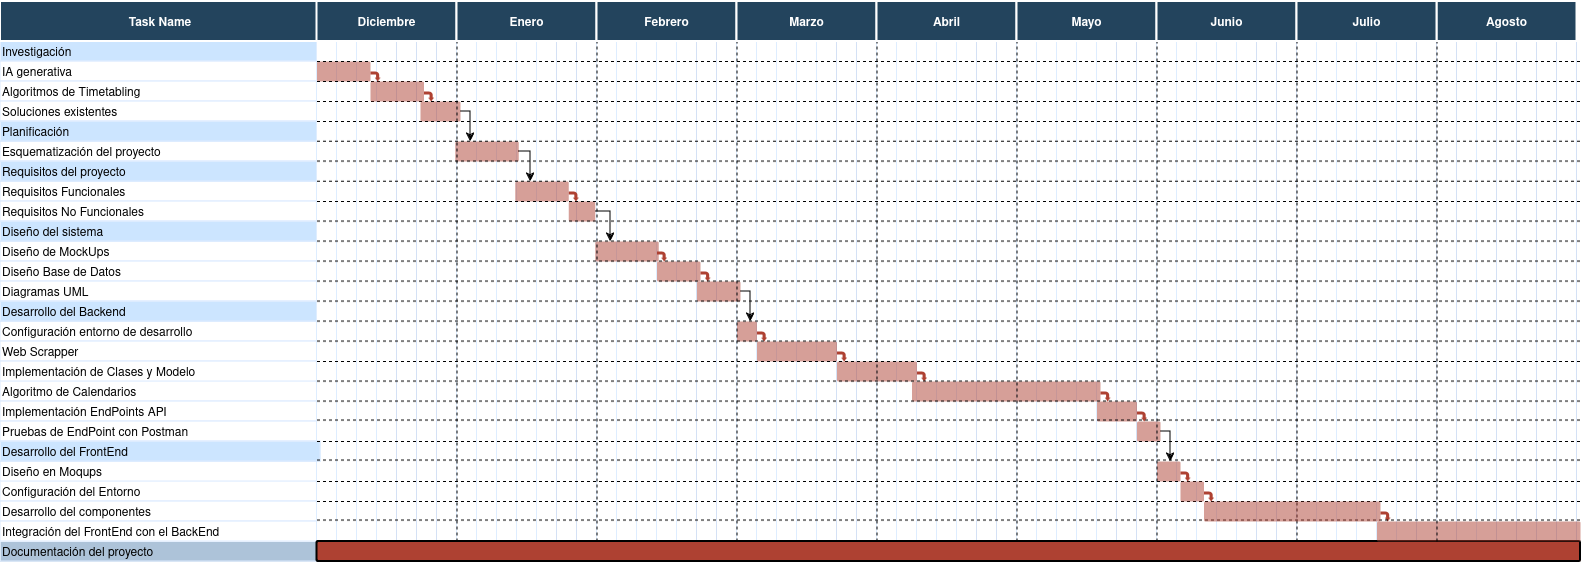
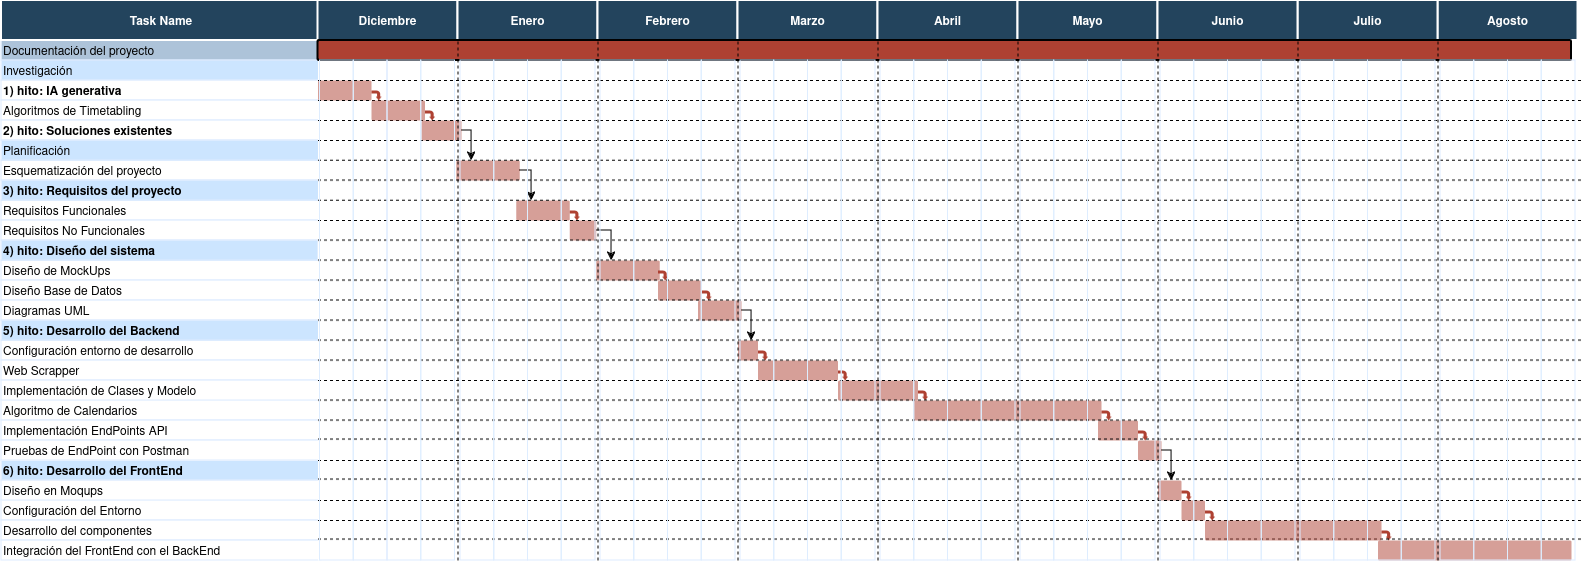
Último commit

diff --git a/doc/secciones/05_diseño.tex b/doc/secciones/05_diseño.tex
@@ -1,6 +1,8 @@
 \chapter{Diseño}
 En esta sección se describirá el diseño de la plataforma \textbf{GAC} (Gestor Académico de Calendarios). Se detallarán los aspectos más relevantes de la arquitectura, la interfaz de usuario y la base de datos.
 
+
+
 \section{Arquitectura software}
 La arquitectura software se refiere a la vista del sistema que incluye los componentes principales del mismo, la conducta de dichos componentes según se la percibe desde el resto del sistema y las formas en las que interactúan y se coordinan entre sí para lograr los objetivos del sistema. Sus dos principales aspectos son, que provee de un plan de diseño, un ``blueprint'' del sistema a la vez que hace de abstracción del mismo para ayudar a manejar la complejidad del mismo. Una buena arquitectura software es el garante de un sistema que cumple con los requisitos de calidad, como la eficiencia, la fiabilidad, la seguridad, la mantenibilidad, la escalabilidad, la portabilidad, la usabilidad, la interoperabilidad, la disponibilidad y la capacidad de evolución \cite{hofmeister2000applied, reynoso2004introduccion, garlan2008software}.\newline
 
@@ -9,6 +11,40 @@ Para el desarrollo de la plataforma se ha optado por una arquitectura cliente-se
 \newpage
 
 Adicionalmente, se ha desarrollado un web scraper\footnote{\url{https://kinsta.com/es/base-de-conocimiento/que-es-web-scraping/}} que se encarga de obtener toda la programación docente de la oficina virtual de la Universidad de Granada\footnote{\url{https://oficinavirtual.ugr.es}}. Los usuarios realizan peticiones desde la plataforma web al servidor, el cual se encarga de procesarlas y devolver una respuesta.\newline
+
+
+\subsection{Arquitectura cliente-servidor}
+
+La arquitectura cliente-servidor (Figura \ref{fig:cliente_servidor}) es un modelo de diseño de software en el que las tareas se reparten entre los proveedores de recursos o servicios, llamados \textbf{servidores}, y los demandantes, llamados \textbf{clientes}. Un cliente realiza una petición a un servidor, el cual procesa la solicitud y devuelve una respuesta. La comunicación entre ambos se realiza a través de una red, generalmente utilizando el protocolo TCP/IP. Actualmente, se emplea el término backend para referirse a los servidores y frontend para los clientes.\newline
+
+\begin{figure}[H]
+    \centering
+    \includegraphics[width=0.7\textwidth]{./imagenes/cliente_servidor.png}
+    \caption{Arquitectura Cliente-Servidor \cite{sucerman2023}.}
+    \label{fig:cliente_servidor}
+\end{figure}
+
+\subsubsection*{Cliente}
+
+El cliente es la parte del sistema que interactúa con el usuario final. Se encarga de enviar solicitudes al servidor y de procesar la respuesta para mostrarla al usuario. Puede ser una aplicación de escritorio, una aplicación web o una aplicación móvil. En el caso de la plataforma \textbf{GAC}, el cliente es una aplicación web que se ejecuta en un navegador.\newline
+
+\subsubsection*{Servidor}
+
+El servidor es la parte del sistema que recibe las solicitudes del cliente, las procesa y devuelve una respuesta. Puede ser un servidor web, un servidor de bases de datos o un servidor de aplicaciones. En el caso de la plataforma \textbf{GAC}, el servidor es un contenedor de Docker que se encarga de gestionar las solicitudes de los clientes y de comunicarse con la base de datos.
+
+\subsubsection*{Ventajas e inconvenientes}
+
+Las ventajas de la arquitectura cliente-servidor son varias, garante de ello es su amplia adopción en la industria del software. Entre las más destacadas se encuentran:
+
+\begin{itemize}
+    \item [$\circ$] Facilidad en la administración y control de los datos al encontrarse los recursos en entornos de servidor controlados
+    \item [$\circ$] Escalabilidad, ya que se pueden ampliar ambos entornos, centrando las necesidades de escalabilidad en el servidor.
+    \item [$\circ$] Permite el mantenimiento individual de las capas software, lo que permite aislar problemas y facilitar la corrección de errores.
+    \item [$\circ$] Desarrollo menos dependiente, ya que se pueden desarrollar las capas de forma separada.
+\end{itemize}
+
+Sin embargo, también presenta inconvenientes, como la necesidad de una infraestructura de red para la comunicación entre cliente y servidor, la dependencia de la disponibilidad del servidor y la necesidad de una mayor seguridad en la comunicación entre ambos.\newline
+
 
 \subsection{Arquitectura Orientada a Servicios (SOA)}
 
@@ -103,31 +139,6 @@ Bajo el marco de una arquitectura cliente-servidor, las llamadas a los servicios
     \end{itemize}
 \end{itemize}
 
-\subsection{Arquitectura cliente-servidor}
-
-La arquitectura cliente-servidor es un modelo de diseño de software en el que las tareas se reparten entre los proveedores de recursos o servicios, llamados \textbf{servidores}, y los demandantes, llamados \textbf{clientes}. Un cliente realiza una petición a un servidor, el cual procesa la solicitud y devuelve una respuesta. La comunicación entre ambos se realiza a través de una red, generalmente utilizando el protocolo TCP/IP. Actualmente, se emplea el término backend para referirse a los servidores y frontend para los clientes.\newline
-
-\subsubsection*{Cliente}
-
-El cliente es la parte del sistema que interactúa con el usuario final. Se encarga de enviar solicitudes al servidor y de procesar la respuesta para mostrarla al usuario. Puede ser una aplicación de escritorio, una aplicación web o una aplicación móvil. En el caso de la plataforma \textbf{GAC}, el cliente es una aplicación web que se ejecuta en un navegador.\newline
-
-\subsubsection*{Servidor}
-
-El servidor es la parte del sistema que recibe las solicitudes del cliente, las procesa y devuelve una respuesta. Puede ser un servidor web, un servidor de bases de datos o un servidor de aplicaciones. En el caso de la plataforma \textbf{GAC}, el servidor es un contenedor de Docker que se encarga de gestionar las solicitudes de los clientes y de comunicarse con la base de datos.\newline
-
-\subsubsection*{Ventajas e inconvenientes}
-
-Las ventajas de la arquitectura cliente-servidor son varias, garante de ello es su amplia adopción en la industria del software. Entre las más destacadas se encuentran:
-
-\begin{itemize}
-    \item [$\circ$] Facilidad en la administración y control de los datos al encontrarse los recursos en entornos de servidor controlados
-    \item [$\circ$] Escalabilidad, ya que se pueden ampliar ambos entornos, centrando las necesidades de escalabilidad en el servidor.
-    \item [$\circ$] Permite el mantenimiento individual de las capas software, lo que permite aislar problemas y facilitar la corrección de errores.
-    \item [$\circ$] Desarrollo menos dependiente, ya que se pueden desarrollar las capas de forma separada.
-\end{itemize}
-
-Sin embargo, también presenta inconvenientes, como la necesidad de una infraestructura de red para la comunicación entre cliente y servidor, la dependencia de la disponibilidad del servidor y la necesidad de una mayor seguridad en la comunicación entre ambos.\newline
-
 \section{Diseño Lógico}
 
 Los diagramas de clase UML (Unified Modeling Language) son el núcleo del diseño y análisis orientado a objetos y son una forma de modelar la estructura estática de un sistema, por medio de clases, atributos, métodos y relaciones entre ellas \cite{herchi2012user}. Todas las clases del diagrama que se muestra en la Figura \ref{fig:class_diagram}, se traducirán a tablas donde sus campos serán los atributos que se detallan en la figura. A continuación se muestra el diagrama de clases y secuencia de la plataforma.\newline
@@ -158,7 +169,7 @@ Adicionalmente, se ha desarrollado un diagrama de secuencia que muestra la inter
 
 Un wireframe\footnote{\url{https://miro.com/es/wireframe/que-es-wireframe/}} es un diagrama visual que esboza el esqueleto de un proyecto o pieza tecnológica. Los diseñadores de UX (User Experience) suelen utilizarlo para trazar el diseño y la composición de su trabajo si entrar en detalles de paletas de color, etc. Es la etapa previa a los mockups y prototipos y se caracterizan por la ausencia de colores y elementos de diseño estético.\newline
 
-Los wireframes que se muestra en las Figuras \ref{fig:wireframe_a} y \ref{fig:wireframe_b}, pertenecen a los primeros bocetos de la interfaz de usuario de la plataforma \textbf{GAC}, realizados con la plataforma Moqups \footnote{\url{https://moqups.com/es/}}. En las primeras etapas del diseño se consideró el uso de modelos de IA generativa para el desarrollo de los calendarios. Además, se pretendía que la plataforma fuese una especie de organizador personal tipo Google Calendar. Pueden consultarse el resto de diseños en el anexo I.\newline
+Los wireframes que se muestra en las Figuras \ref{fig:wireframe_a} y \ref{fig:wireframe_b}, pertenecen a los primeros bocetos de la interfaz de usuario de la plataforma \textbf{GAC}, realizados con la plataforma Moqups \footnote{\url{https://moqups.com/es/}}. En las primeras etapas del diseño se consideró el uso de modelos de IA generativa para el desarrollo de los calendarios. Además, se pretendía que la plataforma fuese una especie de organizador personal tipo Google Calendar. Pueden consultarse el resto de diseños en el Anexo I.\newline
 
 
 \begin{figure}[H]

diff --git a/doc/secciones/03_planificacion.tex b/doc/secciones/03_planificacion.tex
@@ -56,7 +56,7 @@ Para llevar a cabo este proyecto, se ha optado por una metodología de desarroll
 \begin{enumerate}
     \item \textbf{Flexibilidad:} Al asumir los roles de programador y usuario de la aplicación, la capacidad de adaptación cobró gran relevancia. Los requisitos podían modificarse conforme progresaba el desarrollo. La implementación de Scrum, con sus ciclos de trabajo cortos (sprints) y revisiones frecuentes, me permitió ajustar el producto a medida que avanzaba el proyecto.
     \item \textbf{Desarrollo incremental:} Scrum se basa en la idea de que es mejor entregar un producto funcional en partes pequeñas y regulares que esperar a tener un producto completo. Esta filosofía me permitió avanzar en el desarrollo de la plataforma de manera progresiva y constante, entregando funcionalidades completas y probadas en cada sprint.
-    \item \textbf{Iteratividad:} La metodología Scrum se basa en la creación de versiones del producto en ciclos cortos y regulares. Esto me permitió obtener retroalimentación temprana y realizar ajustes en función de ella, lo que resultó fundamental para el éxito del proyecto.
+    \item \textbf{Iterativo:} La metodología Scrum se basa en la creación de versiones del producto en ciclos cortos y regulares. Esto me permitió obtener retroalimentación temprana y realizar ajustes en función de ella, lo que resultó fundamental para el éxito del proyecto.
 \end{enumerate}
 
 \section{Temporización}
@@ -74,12 +74,14 @@ El proyecto comenzó en Diciembre de 2023. Para ilustrar la planificación del p
 
 El desarrollo completo de la plataforma se ha extendido a lo largo de 8 meses. Durante este período, se llevaron a cabo las diversas etapas del proyecto, las cuales se detallan en el siguiente diagrama de Gantt (Figura \ref{fig:gantt}).
 
-\begin{figure}[H]
-    \centering
-    \includegraphics[width=1\textwidth]{imagenes/gantt.png}
-    \caption{Diagrama de Gantt del proyecto.}
-    \label{fig:gantt}
-\end{figure}
+\begin{landscape}
+    \begin{figure}[H]
+        \centering
+        \includegraphics[width=1.65\textwidth]{imagenes/gantt.png}
+        \caption{Diagrama de Gantt del proyecto.}
+        \label{fig:gantt}
+    \end{figure}    
+\end{landscape}
 
 \section{Recursos y costes}
 
@@ -102,9 +104,23 @@ Para el desarrollo de la plataforma se ha utilizado un portátil personal y un s
     \begin{tabular}[c]{@{}c@{}}Acer Aspire 3 A315-59-504M -\\  Intel® Core™ i5-1235U -\\  16GB RAM\end{tabular} & 749 €                                   & \multirow{2}{*}{846,90€}                  &  &  \\ \cline{1-2}
     \begin{tabular}[c]{@{}c@{}}Monitor -\\ Asus VZ239HE 23" Full HD IPS\end{tabular}                            & 97,90€                                  &                                           &  &  \\ \cline{1-3}
     \end{tabular}
-    \caption{Coste de Materiales}
+    \caption{Coste de Materiales.}
     \label{tab:coste_materiales}
 \end{table}
+
+En cuanto a las licencias necesarias para este proyecto, se han utilizado exclusivamente tecnologías de código abierto con el propósito de reducir costos. Como resultado de esta decisión, no ha habido ningún gasto en licencias. Para calcular el coste del hardware mencionado en la sección de materiales, es esencial tener en cuenta la vida útil estimada de los dispositivos, como un portátil, que se estima en 5 años \footnote{\url{https://www.minitool.com/es/respaldar-datos/cuanto-dura-un-ordenador-portatil.html}}.
+
+\begin{equation}
+    \textbf{Coste Anual} = \frac {\text{Coste Materiales}}{\text{5 años}} = \text{169,38 €/año}
+\end{equation}
+
+\begin{equation}
+    \textbf{Coste Mensual} = \frac {\text{Coste Anual}}{\text{12 meses}} = \text{14,11 €/mes}
+\end{equation}
+
+\begin{equation}
+    \textbf{Materiales x 8 Meses} = \text{14,11 €/mes} \times \text{8 meses} = \text{113,04 €}
+\end{equation}
 
 
 \subsection{Presupuesto}
@@ -145,16 +161,6 @@ Teniendo en cuenta las 30 horas de trabajo, se puede calcular el coste total del
     \textbf{Coste Salario} = \text{16 Horas} \times \text{10,16 €/Hora} = \text{169,60 €}
 \end{equation}
 
-En cuanto a las licencias necesarias para este proyecto, se han utilizado exclusivamente tecnologías de código abierto con el propósito de reducir costos. Como resultado de esta decisión, no ha habido ningún gasto en licencias. Para calcular el coste del hardware mencionado en la sección de materiales, es esencial tener en cuenta la vida útil estimada de los dispositivos, como un portátil, que se estima en 5 años \footnote{\url{https://www.minitool.com/es/respaldar-datos/cuanto-dura-un-ordenador-portatil.html}}.
-
-\begin{equation}
-    \textbf{Coste Anual} = \frac {\text{Coste Materiales}}{\text{5 años}} = \text{169,38 €/año}
-\end{equation}
-
-\begin{equation}
-    \textbf{Materiales x 8 Meses} = \left(\frac {\text{Coste Materiales}}{\text{5 años}}\right) \times 8 \text{ Meses} = \text{1.355,04 €}
-\end{equation}
-
 Sumando los costes de salario y materiales, se obtiene el coste total del proyecto (Figura \ref{tab:coste_total}).
 
 \begin{table}[H]
@@ -164,9 +170,9 @@ Sumando los costes de salario y materiales, se obtiene el coste total del proyec
     \multicolumn{1}{|l|}{Concepto} & \multicolumn{1}{l|}{Coste (€)} &  &  \\ \cline{1-2}
     Salario Desarrollador           & 2.500,00                        &  &  \\ \cline{1-2}
     Salario Diseñador               & 169,60                         &  &  \\ \cline{1-2}
-    Materiales                      & 1.355,04                       &  &  \\ \cline{1-2}
-    \textbf{Total}                   & \textbf{4.024,64}               &  &  \\ \cline{1-2}
+    Materiales                      & 113,04                       &  &  \\ \cline{1-2}
+    \textbf{Total}                   & \textbf{2.782,64}               &  &  \\ \cline{1-2}
     \end{tabular}
-    \caption{Coste Total del Proyecto}
+    \caption{Coste Total del Proyecto \textbf{(Cálculo libre de impuestos)}.}
     \label{tab:coste_total}
 \end{table}

diff --git a/doc/prefacios/prefacio.tex b/doc/prefacios/prefacio.tex
@@ -1,6 +1,7 @@
 \thispagestyle{empty}
 
 \begin{center}
+	\newpage
 {\large\bfseries Plataforma para la gestión de calendarios académicos basada en servicios web}\\
 \end{center}
 \begin{center}
@@ -10,7 +11,7 @@ José Pablo Márquez Megías\\
 %\vspace{0.7cm}
 
 \vspace{0.5cm}
-\noindent\textbf{Palabras clave}: \textit{software libre}, \textit{timetabling}, \textit{API}, \textit{web scraping}, \textit{SOA}
+\noindent\textbf{Palabras clave}: \textit{software libre}, \textit{timetabling}, \textit{application programming interfaces}, \textit{web scraping}, \textit{servicios web}, \textit{arquitectura orientada a servicios}
 \vspace{0.7cm}
 
 \noindent\textbf{Resumen}\\
@@ -18,7 +19,6 @@ José Pablo Márquez Megías\\
 Cada año los estudiantes deben matricularse en una serie de asignaturas, organizadas en teoría y prácticas con horarios distribuidos a lo largo de la semana. Este proceso de matrícula, aunque fundamental, puede ser tedioso y propenso a errores, especialmente para aquellos con asignaturas pendientes de otros cursos o provenientes de ciclos formativos que deben combinar asignaturas de distintos cursos y grupos en un mismo cuatrimestre.\newline
 
 El presente proyecto describe el desarrollo de una plataforma para la gestión de calendarios académicos, que permite a los estudiantes de la Universidad de Granada generar de forma automática un calendario semanal a partir de las asignaturas y grupos en los que deseen matricularse. La plataforma, denominada \textbf{GAC} (Gestor Académico de Calendarios), centraliza y mantiene actualizada toda la información relevante sobre la planificación docente, además de aportar una serie de herramientas que permiten a los alumnos la planificación automática de su selección de matrícula reduciendo significativamente el tiempo que les tomaría hacerlo de forma manual y sin errores.\newline
-	
 
 \cleardoublepage
 
@@ -29,7 +29,7 @@ El presente proyecto describe el desarrollo de una plataforma para la gestión d
 	José Pablo Márquez Megías\\
 \end{center}
 \vspace{0.5cm}
-\noindent\textbf{Keywords}: \textit{open source}, \textit{timetabling}, \textit{SOA}, \textit{API}, \textit{web scraping}
+\noindent\textbf{Keywords}: \textit{open source}, \textit{timetabling}, \textit{web services}, \textit{application programming interfaces}, \textit{web scraping}, \textit{service-oriented architecture}
 \vspace{0.7cm}
 
 \noindent\textbf{Abstract}\\

diff --git a/doc/secciones/08_conclusiones.tex b/doc/secciones/08_conclusiones.tex
@@ -1,4 +1,4 @@
-\chapter{Conclusiones y trabajos futuros}
+\chapter{Conclusiones y Trabajo Futuro}
 
 \section{Conclusión}
 
@@ -12,9 +12,15 @@ Este proceso ha sido enriquecedor tanto en el ámbito personal como en el profes
 
 La elección de las tecnologías mencionadas en capítulos anteriores ha ampliado considerablemente mi entendimiento sobre el desarrollo de aplicaciones, permitiéndome alcanzar un nivel de profundidad y práctica mejor que aquel con el que partí al iniciar el proyecto. Además, la aplicación de metodologías de desarrollo ha mejorado mis habilidades en la planificación y gestión de proyectos, enseñándome la importancia de adaptarse a los cambios durante el ciclo de desarrollo.\newline
 
+Con respecto a los objetivos específicos \ref{obj:1}, \ref{obj:2} y \ref{obj:3} se han cumplido en la Sección 2, donde se ha realizado una revisión completa del estado de la cuestión tanto de los trabajos relacionados como de los algoritmos de timetabling.\newline
+
+Los objetivos específicos \ref{obj:4} y \ref{obj:5} se han cumplido en la Sección 5 y Sección 6, respectivamente, donde se ha realizado un análisis en profundidad de las Arquitecturas Orientadas a Servicios y tecnología relacionada para su implementación en arquitecturas REST/RESTful, y se han aprendido nuevas tecnologías y herramientas en el marco de sistemas web (backend y frontend).\newline
+
+Por último, el objetivo específico \ref{obj:6} se ha cumplido a lo largo de las secciones 4, 5, 6 y 7, donde se ha desarrollado la plataforma GAC, incluyendo el análisis, diseño, implementación, validación y despliegue de la misma.\newline
+
 En conclusión, este proyecto ha cumplido con éxito su objetivo de facilitar la tarea de generar un calendario semanal a los estudiantes para el posterior proceso de matriculación. Además, ha fortalecido mi capacidad para identificar problemas y diseñar soluciones efectivas. Ha supuesto un reto personal y profesional que me ha permitido crecer y aprender, y que me ha proporcionado una base sólida para futuros proyectos.\newline
 
-Este proyecto es de código abierto y su código fuente está disponible en el siguiente repositorio de GitHub: \url{PONER URL AL TERMINAR}.
+Este proyecto es de código abierto y su código fuente está disponible en el siguiente repositorio de GitHub: \url{https://github.com/jotape736/TFG_GAC}.
 
 \section{Trabajo Futuro}
 

diff --git a/doc/secciones/01_introduccion.tex b/doc/secciones/01_introduccion.tex
@@ -1,5 +1,6 @@
 \chapter{Introducción}
 
+Este proyecto es de código abierto y se encuentra alojado en el siguiente repositorio de GitHub: \url{https://github.com/jotape736/TFG_GAC}.
 
 \section{Contexto y Motivación}
 El uso de las TICS (Tecnologías de la Información y la Comunicación) se encuentra patente en entornos académicos y escolares. Estas tecnologías, a través de numerosas herramientas, mejoran significativamente los procesos de aprendizaje, la interacción entre profesor y estudiantado y, en definitiva, hacen mejor la experiencia educativa \cite{Flores-Alarcia2012,Paladines,TICenLaEducacion}.\newline
@@ -24,9 +25,10 @@ El objetivo fundamental del presente proyecto es la \textit{creación de una pla
 
 Para la consecución de este objetivo principal, se han establecido los siguientes objetivos específicos:
 \begin{enumerate}
-    \item Revisión de soluciones existentes para la generación automática de calendarios académicos. Tanto comerciales como proyectos de investigación.
-    \item Estudio de técnicas de timetabling.
-    \item Estudio del uso de IA generativa para la solución del problema de timetabling.
-    \item Estudio de nuevas tecnologías y paradigmas de computación, tales como tecnologías web, arquitecturas orientadas a servicios, etc.
-    \item ...
+    \item Revisión bibliográfica de trabajos relacionados existentes (comerciales o proyectos de investigación) para la generación automática de calendarios académicos\label{obj:1}.
+    \item Estudio sobre los diferentes algoritmos de timetabling para la generación automática de calendarios óptimos\label{obj:2}.
+    \item Aplicación de las tecnologías de IA generativa más extendidas para estudiar su viabilidad como alternativa a algoritmos tradicionales de timetabling a través de \textit{prompt engineering}\label{obj:3}.
+    \item Análisis en profundidad de las Arquitecturas Orientadas a Servicios y tecnología relacionada para su implementación en arquitecturas REST/RESTful\label{obj:4}.
+    \item Aprendizaje de nuevas tecnologías y herramientas en el marco de sistemas web (backend y frontend)\label{obj:5}.
+    \item Desarrollo (análisis, diseño, implementación, validación y despliegue) de la plataforma GAC \label{obj:6}.
 \end{enumerate}

diff --git a/doc/secciones/04_analisis.tex b/doc/secciones/04_analisis.tex
@@ -1,14 +1,14 @@
 \chapter{Análisis}
 
 En esta sección se cubren los requisitos funcionales y no funcionales para el desarrollo del proyecto. Se describen los casos de uso y se detallan los escenarios y actores del sistema.
-
-\newpage
  
-\section{Requisitos funcionales}
+\section{Requisitos Funcionales}
 
 La calidad del software puede medirse en concordancia con los requisitos funcionales y de rendimiento que se establezcan, con las características intrínsecas que se esperan de cualquier software desarrollado de manera profesional. Los requisitos funcionales son aquellos que definen como debe comportarse el sistema, es decir, las funciones específicas que se esperan que cumplan con las necesidades finales del usuario \cite{Veloz_Segura_2022}.\newline
 
 A continuación se describirán los requisitos funcionales, clasificados según su gestión principal, a fin de facilitar la comprensión clara de las funcionalidades que la plataforma debe incluir.
+
+\newpage
 
 \subsection{Gestión de usuarios}
 
@@ -177,7 +177,7 @@ En este apartado se describe la gestión de los calendarios semanales creados po
     \stepcounter{rfCounter}
 \end{table}
 
-\section{Requisitos no funcionales}
+\section{Requisitos No Funcionales}
 
 Los requisitos no funcionales son aquellos que no se refieren específicamente a la funcionalidad de un sistema. Imponen restricciones sobre el producto que se está desarrollando y el proceso de desarrollo, y especifican restricciones externas que debe cumplir el producto \cite{nonFR}.
 

diff --git a/doc/secciones/07_despliegue_y_validacion.tex b/doc/secciones/07_despliegue_y_validacion.tex
@@ -13,6 +13,13 @@ El despliegue de una plataforma es un paso fundamental en el desarrollo de un pr
 
 El backend, que incluye la API, la base de datos y el web scrapper, se ejecutarán localmente. Para ello es necesario tener instalado \textbf{Docker} y \textbf{Docker Compose}. Para desplegar se deben ejecutar los comandos \textit{docker compose build} y \textit{docker compose up} en la terminal.
 
+\newpage
+\section{Validación}
+
+Las pruebas en el desarrollo de software son fundamentales para garantizar el correcto funcionamiento de la aplicación. Validan los requisitos del sistema y aseguran que el software cumple con las expectativas del usuario.\newline
+
+Durante el desarrollo de la plataforma se realizaron pruebas unitarias y de integración para garantizar el correcto funcionamiento de las funcionalidades. Además, se realizaron pruebas manuales para comprobar la usabilidad y la experiencia del usuario. Se realizaron pruebas de rendimiento para comprobar la velocidad de carga de la aplicación y la efectividad del algoritmo de generación de horarios.\newline
+
 \section{GAC: Gestor Académico de Calendarios}
 
 A continuación se mostrarán diferentes capturas (Figuras \ref{fig:GAC_inicio}, \ref{fig:GAC_menu}, \ref{fig:GAC_asignaturas}, \ref{fig:GAC_grupos}, \ref{fig:GAC_calendario}, \ref{fig:GAC_calendario_solapamientos}) de la aplicación y un enlace para un vídeo demostrativo de la misma:

diff --git a/doc/secciones/02_estado_de_la_cuestion.tex b/doc/secciones/02_estado_de_la_cuestion.tex
@@ -272,7 +272,7 @@ Además de las soluciones comerciales mencionadas, se encontró otro proyecto ac
 
 
 % Existen múltiples estudios sobre algoritmos de timetabling para clases y exámenes universitarios:\\
-\newpage
+
 \subsection{Conclusiones}
 Las aplicaciones discutidas anteriormente, como Google Calendar y Microsoft Calendar, son aplicaciones de calendario que permiten a los usuarios programar eventos y recordatorios. Se caracterizan por ser de propósito general, fáciles de usar y accesibles en múltiples dispositivos. Cuentan además con la ventaja de poder ser compartidos con otros usuarios, lo que facilita la colaboración en la programación de eventos.\newline
 

diff --git a/doc/portada/portada.tex b/doc/portada/portada.tex
@@ -24,3 +24,4 @@
 Granada, septiembre de 2024
 \end{minipage}
 \end{titlepage}
+
